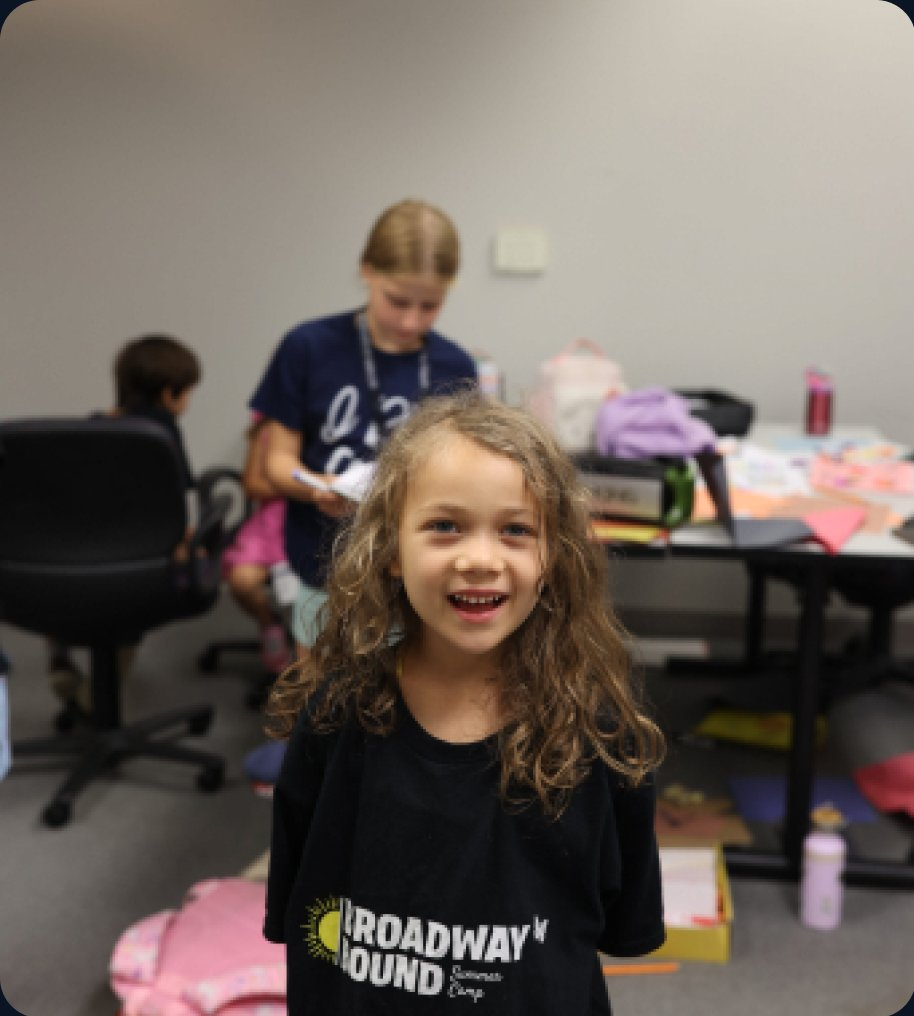
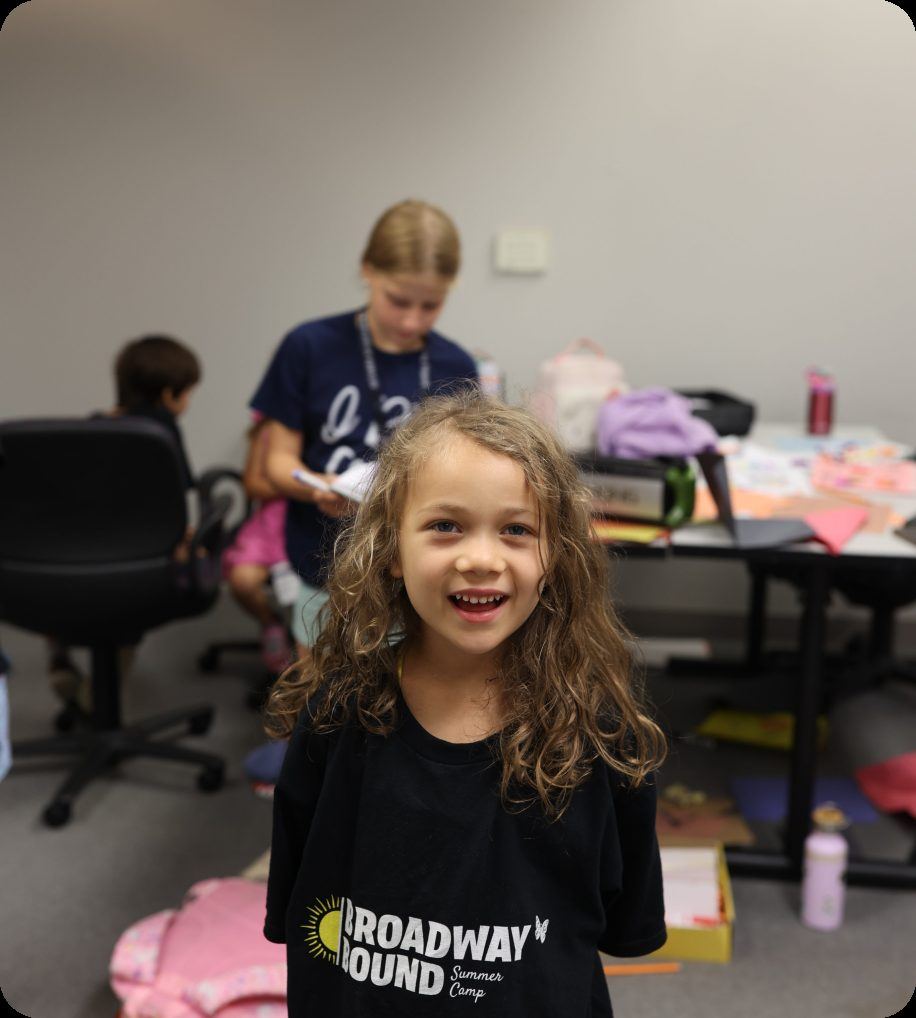
Free class funnel: raw Figma assets via API, coded chrome
All photos now pulled per-node through the Figma REST API (raw fills,
no baked badges/rounding/text): true hero photo (top image fill of the
hero frame), 5 separate strip photos with CSS gaps and radii, clean
how-it-works photos with the numbered badges rendered in code, raw card
and ticket photos. Doodles and the NOVAPA wordmark are now the design's
actual SVG vectors (transparent, design opacities), read-next ellipse is
coded text, GT Walsheim self-hosted (trial glyphs, DM Sans per-glyph
fallback until the licensed files arrive).

diff --git a/free-class/index.html b/free-class/index.html
@@ -12,20 +12,25 @@
 <!-- Free class funnel, step 1 of 3. Rebuilt Aug 26 2026 to match the BFA
      Figma (Section 1, frame 2206-5598) at the 1512 design grid; photos and
      doodles are cropped straight from the 2x frame export (free-class/img/).
-     Headline font is Protest Strike by Jason's call (brand override of the
-     design's GT Walsheim Pro). -->
+     Fonts are self-hosted GT Walsheim (licensed by Jason, Aug 26) matching
+     the design; DM Sans is the per-glyph fallback because the current
+     files are glyph-stripped trials — replace fonts/*.woff2 with the
+     licensed full set, same filenames, when Jason drops them in. -->
 <link rel="preconnect" href="https://fonts.googleapis.com">
 <link rel="preconnect" href="https://fonts.gstatic.com" crossorigin>
-<link href="https://fonts.googleapis.com/css2?family=Protest+Strike&family=DM+Sans:ital,wght@0,400;0,500;0,700;1,400&display=swap" rel="stylesheet">
+<link href="https://fonts.googleapis.com/css2?family=DM+Sans:ital,wght@0,400;0,500;0,700;1,400&display=swap" rel="stylesheet">
 <style>
+  @font-face { font-family:'GT Walsheim'; src:url('/free-class/fonts/GTWalsheim-Regular.woff2') format('woff2'); font-weight:400; font-display:swap; }
+  @font-face { font-family:'GT Walsheim'; src:url('/free-class/fonts/GTWalsheim-Medium.woff2') format('woff2'); font-weight:500; font-display:swap; }
+  @font-face { font-family:'GT Walsheim'; src:url('/free-class/fonts/GTWalsheim-Bold.woff2') format('woff2'); font-weight:700; font-display:swap; }
   :root { --cream:#FFFBEE; --navy:#0B1422; --ink:#1A2230; --dim:#5B6472; --dimlight:rgba(255,255,255,0.72); --gold:#FFC866; --gold2:#F2B94C; --line:#E8E2CE; }
   * { margin:0; padding:0; box-sizing:border-box; }
   html { scroll-behavior:smooth; }
-  body { background:var(--cream); color:var(--ink); font-family:'DM Sans',sans-serif; font-size:16px; line-height:1.5; -webkit-font-smoothing:antialiased; }
-  h1,h2,h3 { font-family:'Protest Strike',sans-serif; font-weight:400; letter-spacing:0.01em; line-height:1.15; }
+  body { background:var(--cream); color:var(--ink); font-family:'GT Walsheim','DM Sans',sans-serif; font-size:16px; line-height:1.5; -webkit-font-smoothing:antialiased; }
+  h1,h2,h3 { font-family:'GT Walsheim','DM Sans',sans-serif; font-weight:700; letter-spacing:-0.045em; line-height:1.2; }
   .wrap { max-width:1512px; margin:0 auto; position:relative; }
   .pad { padding-left:clamp(20px,8.5vw,128px); padding-right:clamp(20px,8.5vw,128px); }
-  .btn { display:inline-block; background:var(--gold); color:var(--navy); font-family:'DM Sans',sans-serif; font-weight:700; font-size:15px; padding:13px 28px; border-radius:999px; text-decoration:none; transition:transform .12s ease; }
+  .btn { display:inline-block; background:var(--gold); color:var(--navy); font-family:'GT Walsheim','DM Sans',sans-serif; font-weight:700; font-size:15px; padding:13px 28px; border-radius:999px; text-decoration:none; transition:transform .12s ease; }
   .btn:hover { transform:translateY(-2px); }
   .btn-note { font-size:11px; letter-spacing:1.6px; font-weight:700; color:var(--dim); text-transform:uppercase; margin-left:16px; }
   img { display:block; }
@@ -36,7 +41,7 @@
   .hero-media img { width:100%; height:100%; object-fit:cover; object-position:center 25%; filter:brightness(0.55) saturate(1.05); }
   .hero-media:after { content:""; position:absolute; inset:0; background:radial-gradient(80% 70% at 50% 45%, rgba(4,8,16,0.25), rgba(4,8,16,0.55)); }
   .hero-inner { position:relative; text-align:center; padding:34px 22px 120px; }
-  .hero-logo { font-family:'Protest Strike',sans-serif; letter-spacing:4px; font-size:21px; }
+  .hero-logo { font-family:'GT Walsheim','DM Sans',sans-serif; font-weight:700; letter-spacing:4px; font-size:21px; }
   .hero-badge { display:inline-flex; align-items:center; gap:8px; margin-top:min(24vh,300px); background:rgba(0,0,0,0.55); border:1px solid rgba(255,255,255,0.22); border-radius:999px; padding:8px 18px; font-size:11.5px; letter-spacing:1.8px; font-weight:700; text-transform:uppercase; }
   .hero-badge b { color:var(--gold); }
   .hero h1 { font-size:clamp(30px,3.5vw,53px); max-width:900px; margin:20px auto 0; }
@@ -69,7 +74,7 @@
   .tl-right h2 { font-size:clamp(26px,2.6vw,40px); max-width:420px; }
   .tl-steps { margin-top:44px; border-left:1.5px solid var(--line); padding-left:34px; display:flex; flex-direction:column; gap:70px; }
   .tl-tag { display:inline-block; border:1.5px solid var(--gold2); color:#B07B1E; border-radius:999px; font-size:10.5px; font-weight:700; letter-spacing:1.6px; padding:4px 13px; text-transform:uppercase; background:var(--cream); }
-  .tl-steps h3 { font-size:15.5px; margin:12px 0 8px; font-family:'DM Sans',sans-serif; font-weight:700; letter-spacing:0; }
+  .tl-steps h3 { font-size:15.5px; margin:12px 0 8px; font-family:'GT Walsheim','DM Sans',sans-serif; font-weight:700; letter-spacing:0; }
   .tl-steps p { color:var(--dim); font-size:14px; line-height:1.65; max-width:330px; }
   .tl-cta { margin-top:60px; display:flex; align-items:center; }
 
@@ -80,8 +85,11 @@
   .how h2 { font-size:clamp(25px,2.4vw,37px); max-width:520px; }
   .how .sub { color:var(--dim); font-size:14px; line-height:1.65; max-width:520px; margin-top:16px; }
   .how-grid { display:grid; grid-template-columns:repeat(4,1fr); gap:24px; margin-top:44px; }
-  .how-card img { width:100%; border-radius:10px; }
-  .how-card h3 { font-size:15.5px; margin-top:14px; font-family:'DM Sans',sans-serif; font-weight:700; letter-spacing:0; }
+  .how-card img { width:100%; border-radius:10px; aspect-ratio:264/260; object-fit:cover; }
+  .how-card .ph { position:relative; }
+  .how-card .n { position:absolute; left:12px; top:-13px; width:27px; height:27px; display:flex; align-items:center; justify-content:center; background:var(--gold); color:var(--navy); border-radius:50%; font-family:'GT Walsheim','DM Sans',sans-serif; font-weight:700; font-size:14px; }
+
+  .how-card h3 { font-size:15.5px; margin-top:14px; font-family:'GT Walsheim','DM Sans',sans-serif; font-weight:700; letter-spacing:0; }
   .how-card p { color:var(--dim); font-size:13px; line-height:1.6; margin-top:6px; }
   .how .center { text-align:center; margin-top:44px; }
 
@@ -90,15 +98,16 @@
   .zero h2 { font-size:clamp(28px,3vw,46px); text-align:center; }
   .zero-cards { width:51.2%; max-width:775px; min-width:min(92%,560px); margin:44px auto 0; display:flex; flex-direction:column; gap:16px; position:relative; z-index:1; }
   .zc { background:#F6F3E8; color:var(--ink); border-radius:10px; padding:17px 26px; }
-  .zc h3 { font-size:15px; margin-bottom:5px; font-family:'DM Sans',sans-serif; font-weight:700; letter-spacing:0; }
+  .zc h3 { font-size:15px; margin-bottom:5px; font-family:'GT Walsheim','DM Sans',sans-serif; font-weight:700; letter-spacing:0; }
   .zc p { font-size:13.5px; line-height:1.6; color:#3A4353; }
   .zero .cta-row { text-align:center; margin-top:40px; position:relative; z-index:1; }
   .zero .cta-note { display:block; margin:14px 0 0; color:rgba(255,255,255,0.55); font-size:11px; letter-spacing:1.6px; font-weight:700; text-transform:uppercase; }
   .zero-doodle { position:absolute; right:5%; bottom:-10px; width:18%; max-width:275px; pointer-events:none; }
 
   /* Photo strip — single design crop, full width */
-  .strip { background:var(--navy); }
-  .strip img { width:100%; }
+  .strip { background:var(--navy); display:flex; gap:8px; padding:0 0 0 0; }
+  .strip img { width:calc((100% - 32px)/5); aspect-ratio:295/340; object-fit:cover; border-radius:12px; }
+  @media (max-width:700px) { .strip { flex-wrap:nowrap; overflow-x:auto; } .strip img { width:44vw; flex:none; } }
 
   /* Season caption — design y 5990-6420 */
   .season { text-align:center; padding:110px 22px 60px; }
@@ -123,7 +132,7 @@
   .final .snap { width:min(479px,86%); border-radius:16px; margin:70px auto 0; }
   .final .btn { margin:70px 0 0; text-transform:uppercase; letter-spacing:1.2px; font-size:14px; padding:18px 88px; }
   footer { margin-top:110px; padding:0 22px 60px; font-size:11.5px; color:rgba(255,255,255,0.5); line-height:2; }
-  footer .flogo { font-family:'Protest Strike',sans-serif; letter-spacing:4px; font-size:24px; color:#fff; margin-bottom:20px; }
+  footer .flogo { font-family:'GT Walsheim','DM Sans',sans-serif; font-weight:700; letter-spacing:4px; font-size:24px; color:#fff; margin-bottom:20px; }
 
   @media (max-width:900px) {
     .rated-head { flex-direction:column; align-items:flex-start; }
@@ -158,9 +167,9 @@ fbq('track', 'ViewContent', { content_name: 'Free Class Funnel', content_type: '
 <body>
 
 <header class="hero">
-  <div class="hero-media"><img src="/register/img/show-2026.jpg" alt="NOVAPA kids performing on a real stage" fetchpriority="high"></div>
+  <div class="hero-media"><img src="/free-class/img/hero.jpg" alt="NOVAPA kids performing on a real stage" fetchpriority="high"></div>
   <div class="hero-inner">
-    <div class="hero-logo">NOVAPA</div>
+    <div class="hero-logo"><img src="/free-class/img/logo-novapa.svg" alt="NOVAPA" style="height:26px;margin:0 auto"></div>
     <div><span class="hero-badge"><b>Free class pass:</b> September only &middot; Leesburg, VA</span></div>
     <h1>Give your child a free NOVAPA day this September. By February, watch them take a bow on a real stage.</h1>
     <p>Come try a real class, completely free this month. See if it&rsquo;s their thing. If it is, a whole season of it ends with them on stage in a real show &mdash; Disney&rsquo;s Frozen Jr., this winter.</p>
@@ -168,7 +177,8 @@ fbq('track', 'ViewContent', { content_name: 'Free Class Funnel', content_type: '
   </div>
 </header>
 
-<section class="rated">
+<section class="rated" style="position:relative;overflow:visible">
+  <img src="/free-class/img/doodle-circle.svg" alt="" style="position:absolute;right:4%;top:-300px;width:510px;max-width:40vw;opacity:0.8;pointer-events:none">
   <div class="wrap pad">
     <div class="rated-head">
       <h2>Rated five stars by the parents who&rsquo;ve already done this</h2>
@@ -187,7 +197,7 @@ fbq('track', 'ViewContent', { content_name: 'Free Class Funnel', content_type: '
 
 <section class="tl">
   <div class="wrap">
-    <img class="tl-doodle" src="/free-class/img/doodle-tan.jpg" alt="">
+    <img class="tl-doodle" src="/free-class/img/doodle-tan.svg" alt="">
     <div class="pad">
       <div class="tl-grid">
         <div class="tl-photos">
@@ -228,22 +238,22 @@ fbq('track', 'ViewContent', { content_name: 'Free Class Funnel', content_type: '
       <p class="sub">One free class. Real instructors. Real kids their age. Not a presentation, not a watered down demo &mdash; the actual environment our enrolled kids get. You don&rsquo;t have to guess whether they&rsquo;ll love it. Let them try it.</p>
       <div class="how-grid">
         <div class="how-card">
-          <img src="/free-class/img/how-1.jpg" alt="Parent booking a September date online" loading="lazy">
+          <div class="ph"><span class="n">1</span><img src="/free-class/img/how-1.jpg" alt="Parent booking a September date online" loading="lazy"></div>
           <h3>Choose your day</h3>
           <p>Pick an available September date. Takes about a minute.</p>
         </div>
         <div class="how-card">
-          <img src="/free-class/img/how-2.jpg" alt="Child arriving at class" loading="lazy">
+          <div class="ph"><span class="n">2</span><img src="/free-class/img/how-2.jpg" alt="Child arriving at class" loading="lazy"></div>
           <h3>Bring your child</h3>
           <p>They join a real NOVAPA class at the National Conference Center in Leesburg.</p>
         </div>
         <div class="how-card">
-          <img src="/free-class/img/how-3.jpg" alt="Kids in class together" loading="lazy">
+          <div class="ph"><span class="n">3</span><img src="/free-class/img/how-3.jpg" alt="Kids in class together" loading="lazy"></div>
           <h3>Let them experience it</h3>
           <p>They meet the instructors, meet the other kids, and get involved.</p>
         </div>
         <div class="how-card">
-          <img src="/free-class/img/how-4.jpg" alt="Kids building the show together" loading="lazy">
+          <div class="ph"><span class="n">4</span><img src="/free-class/img/how-4.jpg" alt="Kids building the show together" loading="lazy"></div>
           <h3>Decide what&rsquo;s next</h3>
           <p>If they love it, we&rsquo;ll show you the season. If they don&rsquo;t &mdash; that&rsquo;s completely okay.</p>
         </div>
@@ -274,11 +284,17 @@ fbq('track', 'ViewContent', { content_name: 'Free Class Funnel', content_type: '
       <a class="btn" data-book href="/free-class/book.html">Claim my free class pass</a>
       <span class="cta-note">It starts with 1 free day</span>
     </div>
-    <img class="zero-doodle" src="/free-class/img/doodle-n.jpg" alt="">
+    <img class="zero-doodle" src="/free-class/img/doodle-n.svg" alt="" style="opacity:0.9">
   </div>
 </section>
 
-<div class="strip"><img src="/free-class/img/strip.jpg" alt="Five moments from NOVAPA seasons: shows, classes, and performances" loading="lazy"></div>
+<div class="strip">
+  <img src="/free-class/img/strip-1.jpg" alt="A NOVAPA show moment" loading="lazy">
+  <img src="/free-class/img/strip-2.jpg" alt="A NOVAPA class moment" loading="lazy">
+  <img src="/free-class/img/strip-3.jpg" alt="A NOVAPA performance moment" loading="lazy">
+  <img src="/free-class/img/strip-4.jpg" alt="A NOVAPA show moment" loading="lazy">
+  <img src="/free-class/img/strip-5.jpg" alt="A NOVAPA performance moment" loading="lazy">
+</div>
 
 <section class="season">
   <h2>This is what a season actually looks like</h2>
@@ -310,7 +326,7 @@ fbq('track', 'ViewContent', { content_name: 'Free Class Funnel', content_type: '
 
 <section class="final">
   <div class="wrap">
-    <img class="final-doodle" src="/free-class/img/doodle-loop.jpg" alt="">
+    <img class="final-doodle" src="/free-class/img/doodle-loop.svg" alt="" style="opacity:0.12">
     <div class="inner">
       <h2>Every free day is a real seat, with a real instructor, in a real class.</h2>
       <p class="sub">September dates are limited. Rehearsals begin the week of September 15, so the September days go first. Claim yours and we hold that seat for your child specifically.</p>
@@ -318,7 +334,7 @@ fbq('track', 'ViewContent', { content_name: 'Free Class Funnel', content_type: '
       <a class="btn" data-book href="/free-class/book.html">Claim my free class pass</a>
     </div>
     <footer>
-      <div class="flogo">NOVAPA</div>
+      <div class="flogo"><img src="/free-class/img/logo-novapa.svg" alt="NOVAPA" style="height:28px;margin:0 auto 20px"></div>
       Northern Virginia Performing Arts &middot; 18945 Conference Center Drive, Plaza C, Leesburg VA 20176 &middot; (571) 571-2120<br>
       This site is not a part of the Facebook website or Facebook Inc. Additionally, this site is NOT endorsed by Facebook in any way. FACEBOOK is a trademark of FACEBOOK, Inc.<br>
       &copy; 2026 Northern Virginia Performing Arts. All Rights Reserved.

diff --git a/free-class/confirmed.html b/free-class/confirmed.html
@@ -15,17 +15,20 @@
      the email is already sent by the time this renders. -->
 <link rel="preconnect" href="https://fonts.googleapis.com">
 <link rel="preconnect" href="https://fonts.gstatic.com" crossorigin>
-<link href="https://fonts.googleapis.com/css2?family=Protest+Strike&family=DM+Sans:ital,wght@0,400;0,500;0,700;1,400&display=swap" rel="stylesheet">
+<link href="https://fonts.googleapis.com/css2?family=DM+Sans:ital,wght@0,400;0,500;0,700;1,400&display=swap" rel="stylesheet">
 <style>
+  @font-face { font-family:'GT Walsheim'; src:url('/free-class/fonts/GTWalsheim-Regular.woff2') format('woff2'); font-weight:400; font-display:swap; }
+  @font-face { font-family:'GT Walsheim'; src:url('/free-class/fonts/GTWalsheim-Medium.woff2') format('woff2'); font-weight:500; font-display:swap; }
+  @font-face { font-family:'GT Walsheim'; src:url('/free-class/fonts/GTWalsheim-Bold.woff2') format('woff2'); font-weight:700; font-display:swap; }
   :root { --cream:#FFFBEE; --navy:#0B1422; --ink:#1A2230; --dim:#5B6472; --gold:#FFC866; --gold2:#F2B94C; --line:#E8E2CE; --green:#2E7D32; }
   * { margin:0; padding:0; box-sizing:border-box; }
   html { scroll-behavior:smooth; }
-  body { background:var(--cream); color:var(--ink); font-family:'DM Sans',sans-serif; font-size:16px; line-height:1.5; -webkit-font-smoothing:antialiased; }
-  h1,h2 { font-family:'Protest Strike',sans-serif; font-weight:400; letter-spacing:0.01em; line-height:1.15; }
+  body { background:var(--cream); color:var(--ink); font-family:'GT Walsheim','DM Sans',sans-serif; font-size:16px; line-height:1.5; -webkit-font-smoothing:antialiased; }
+  h1,h2 { font-family:'GT Walsheim','DM Sans',sans-serif; font-weight:700; letter-spacing:-0.045em; line-height:1.2; }
   .wrap { max-width:1512px; margin:0 auto; position:relative; }
   .pad { padding-left:clamp(20px,8.5vw,128px); padding-right:clamp(20px,8.5vw,128px); }
   img { display:block; }
-  .logo { font-family:'Protest Strike',sans-serif; letter-spacing:4px; font-size:22px; text-align:center; padding:40px 0 0; }
+  .logo { font-family:'GT Walsheim','DM Sans',sans-serif; font-weight:700; letter-spacing:4px; font-size:22px; text-align:center; padding:40px 0 0; }
 
   /* Ticket — design y 185-770, x 115-1390 */
   .ticket-outer { padding-top:56px; }
@@ -45,8 +48,8 @@
   .t-row span { color:rgba(255,255,255,0.55); }
   .t-row b { text-align:right; }
   .t-note { margin-top:18px; font-size:12.5px; line-height:1.6; color:rgba(255,255,255,0.6); max-width:560px; }
-  .read-next { display:block; width:max-content; margin:34px auto 0; }
-  .read-next img { height:46px; }
+  .read-next { display:block; position:relative; width:max-content; margin:34px auto 0; padding:14px 26px; color:var(--ink); font-size:11px; letter-spacing:1.6px; font-weight:700; text-transform:uppercase; text-decoration:none; }
+  .read-next:before { content:""; position:absolute; inset:0; border:2px solid var(--gold2); border-radius:50%; transform:rotate(-2deg); opacity:0.9; }
 
   section { padding:90px 0 0; }
 
@@ -91,7 +94,7 @@
 
   /* Decide — btn left, para right */
   .decide { display:grid; grid-template-columns:1fr 1fr; gap:clamp(30px,8vw,120px); align-items:start; margin-top:100px; }
-  .decide .btn { display:inline-block; background:var(--gold); color:var(--navy); font-family:'DM Sans',sans-serif; font-weight:700; font-size:14px; letter-spacing:0.6px; text-transform:uppercase; padding:15px 34px; border-radius:999px; text-decoration:none; }
+  .decide .btn { display:inline-block; background:var(--gold); color:var(--navy); font-family:'GT Walsheim','DM Sans',sans-serif; font-weight:700; font-size:14px; letter-spacing:0.6px; text-transform:uppercase; padding:15px 34px; border-radius:999px; text-decoration:none; }
   .decide .later { display:block; width:max-content; margin-top:20px; color:var(--ink); font-size:11px; letter-spacing:1.4px; font-weight:700; text-transform:uppercase; }
   .decide .aside { color:var(--dim); font-size:13.5px; line-height:1.7; max-width:420px; }
 
@@ -106,7 +109,7 @@
   .call-note { font-size:12.5px; color:var(--dim); margin-top:10px; }
 
   footer { background:var(--navy); text-align:center; padding:70px 22px 70px; font-size:11.5px; color:rgba(255,255,255,0.5); line-height:2; }
-  footer .flogo { font-family:'Protest Strike',sans-serif; letter-spacing:4px; font-size:24px; color:#fff; margin-bottom:20px; }
+  footer .flogo { font-family:'GT Walsheim','DM Sans',sans-serif; font-weight:700; letter-spacing:4px; font-size:24px; color:#fff; margin-bottom:20px; }
 
   @media (max-width:900px) {
     .ticket { grid-template-columns:1fr; }
@@ -135,7 +138,7 @@ fbq('track', 'PageView');
 </head>
 <body>
 
-<div class="logo">NOVAPA</div>
+<div class="logo"><img src="/free-class/img/logo-novapa-dark.svg" alt="NOVAPA" style="height:26px;margin:0 auto"></div>
 
 <div class="ticket-outer">
   <div class="wrap pad">
@@ -153,7 +156,7 @@ fbq('track', 'PageView');
         <p class="t-note">Your confirmation is on its way with the date and what to bring. That day is yours no matter what you decide on this page.</p>
       </div>
     </div>
-    <a class="read-next" href="#capped"><img src="/free-class/img/read-ellipse.jpg" alt="Read the next part anyway — it's time-sensitive"></a>
+    <a class="read-next" href="#capped">Read the next part anyway &mdash; it&rsquo;s time-sensitive</a>
   </div>
 </div>
 
@@ -165,15 +168,15 @@ fbq('track', 'PageView');
     </div>
     <div class="card-row">
       <div class="card">
-        <div class="ph"><span class="chip gone">Sold out</span><img src="/free-class/img/c-shrek.jpg" alt="Shrek Jr., summer 2026"></div>
+        <div class="ph"><span class="chip gone">Sold out</span><img src="/free-class/img/sc-shrek.jpg" alt="Shrek Jr., summer 2026"></div>
         <h3>Shrek Jr.</h3>
       </div>
       <div class="card">
-        <div class="ph"><span class="chip gone">Sold out</span><img src="/free-class/img/c-sweeney.jpg" alt="Sweeney Todd Teen Conservatory"></div>
+        <div class="ph"><span class="chip gone">Sold out</span><img src="/free-class/img/sc-sweeney.jpg" alt="Sweeney Todd Teen Conservatory"></div>
         <h3>Sweeney Todd &mdash; Teen Conservatory</h3>
       </div>
       <div class="card">
-        <div class="ph"><span class="chip open">Spots open</span><img src="/free-class/img/c-frozen.jpg" alt="Disney's Frozen Jr."></div>
+        <div class="ph"><span class="chip open">Spots open</span><img src="/free-class/img/sc-frozen.jpg" alt="Disney's Frozen Jr."></div>
         <h3>Disney&rsquo;s Frozen Jr.</h3>
       </div>
       <div class="card">
@@ -189,7 +192,7 @@ fbq('track', 'PageView');
 </section>
 
 <section class="why">
-  <img class="why-doodle" src="/free-class/img/doodle-m.jpg" alt="">
+  <img class="why-doodle" src="/free-class/img/doodle-m.svg" alt="" style="opacity:0.8">
   <div class="wrap">
     <div class="k">We&rsquo;re not asking you to gamble</div>
     <h2>Why you can safely say yes right now</h2>
@@ -215,7 +218,7 @@ fbq('track', 'PageView');
   <div class="wrap pad">
     <h2>Pick what fits your family</h2>
     <div class="gridwrap">
-      <img class="pick-doodle" src="/free-class/img/doodle-tan2.jpg" alt="">
+      <img class="pick-doodle" src="/free-class/img/doodle-tan2.svg" alt="">
       <div class="cardg">
         <div class="card">
           <div class="ph"><span class="chip gone">Sold out</span><img src="/free-class/img/c-shrek.jpg" alt="Shrek Jr."></div>
@@ -286,7 +289,7 @@ fbq('track', 'PageView');
 </section>
 
 <footer>
-  <div class="flogo">NOVAPA</div>
+  <div class="flogo"><img src="/free-class/img/logo-novapa.svg" alt="NOVAPA" style="height:28px;margin:0 auto 20px"></div>
   Northern Virginia Performing Arts &middot; 18945 Conference Center Drive, Plaza C, Leesburg VA 20176 &middot; (571) 571-2120<br>
   This site is not a part of the Facebook website or Facebook Inc. Additionally, this site is NOT endorsed by Facebook in any way. FACEBOOK is a trademark of FACEBOOK, Inc.<br>
   &copy; 2026 Northern Virginia Performing Arts. All Rights Reserved.

diff --git a/free-class/book.html b/free-class/book.html
@@ -10,11 +10,14 @@
      same endpoint, which books the seat and sends the confirmation email. -->
 <link rel="preconnect" href="https://fonts.googleapis.com">
 <link rel="preconnect" href="https://fonts.gstatic.com" crossorigin>
-<link href="https://fonts.googleapis.com/css2?family=Protest+Strike&family=DM+Sans:ital,wght@0,400;0,500;0,700;1,400&display=swap" rel="stylesheet">
+<link href="https://fonts.googleapis.com/css2?family=DM+Sans:ital,wght@0,400;0,500;0,700;1,400&display=swap" rel="stylesheet">
 <style>
+  @font-face { font-family:'GT Walsheim'; src:url('/free-class/fonts/GTWalsheim-Regular.woff2') format('woff2'); font-weight:400; font-display:swap; }
+  @font-face { font-family:'GT Walsheim'; src:url('/free-class/fonts/GTWalsheim-Medium.woff2') format('woff2'); font-weight:500; font-display:swap; }
+  @font-face { font-family:'GT Walsheim'; src:url('/free-class/fonts/GTWalsheim-Bold.woff2') format('woff2'); font-weight:700; font-display:swap; }
   :root { --cream:#FFFBEE; --navy:#0B1422; --ink:#1A2230; --dim:#5B6472; --gold:#FFC866; --line:#E4E7ED; }
   * { margin:0; padding:0; box-sizing:border-box; }
-  body { background:var(--navy); color:#fff; font-family:'DM Sans',sans-serif; font-size:16px; line-height:1.6; -webkit-font-smoothing:antialiased; }
+  body { background:var(--navy); color:#fff; font-family:'GT Walsheim','DM Sans',sans-serif; font-size:16px; line-height:1.6; -webkit-font-smoothing:antialiased; }
   .topbar { display:flex; justify-content:space-between; align-items:center; padding:22px 26px; max-width:1140px; margin:0 auto; }
   .back { color:rgba(255,255,255,0.7); font-size:12px; letter-spacing:1.6px; font-weight:700; text-transform:uppercase; text-decoration:none; }
   .back:hover { color:#fff; }
@@ -22,9 +25,9 @@
   .steps i { display:block; width:52px; height:4px; border-radius:4px; background:rgba(255,255,255,0.18); }
   .steps i.on { background:var(--gold); }
   .head { text-align:center; max-width:640px; margin:26px auto 0; padding:0 22px; }
-  h1 { font-family:'Protest Strike',sans-serif; letter-spacing:0.01em; font-weight:400; font-size:clamp(30px,5vw,46px); line-height:1.1; }
+  h1 { font-family:'GT Walsheim','DM Sans',sans-serif; font-weight:700; letter-spacing:0.01em; font-weight:400; font-size:clamp(30px,5vw,46px); line-height:1.1; }
   .head p { color:rgba(255,255,255,0.72); font-size:15px; margin-top:14px; }
-  .logo { font-family:'Protest Strike',sans-serif; font-weight:400; letter-spacing:4px; font-size:20px; color:#fff; text-align:center; padding-top:26px; }
+  .logo { font-family:'GT Walsheim','DM Sans',sans-serif; font-weight:700; letter-spacing:4px; font-size:20px; color:#fff; text-align:center; padding-top:26px; }
 
   .widget { background:#fff; color:var(--ink); border-radius:22px; max-width:1080px; margin:38px auto 90px; padding:40px 44px; }
   .cols { display:grid; grid-template-columns:1.1fr 1fr; gap:48px; }
@@ -38,7 +41,7 @@
   .dates { display:grid; grid-template-columns:repeat(3,1fr); gap:12px; }
   .date { border:1.5px solid var(--line); border-radius:12px; padding:14px 8px; text-align:center; cursor:pointer; background:#FAFBFC; }
   .date .dw { font-size:11.5px; letter-spacing:1.2px; font-weight:700; text-transform:uppercase; color:var(--dim); }
-  .date .dn { font-family:'Protest Strike',sans-serif; letter-spacing:0.01em; font-weight:400; font-size:26px; line-height:1.1; }
+  .date .dn { font-family:'GT Walsheim','DM Sans',sans-serif; font-weight:700; letter-spacing:0.01em; font-weight:400; font-size:26px; line-height:1.1; }
   .date .dm { font-size:12.5px; color:var(--dim); }
   .date.on { border-color:#B07B1E; background:var(--gold); }
   .date.on .dw, .date.on .dm { color:#513A0E; }
@@ -51,12 +54,12 @@
   .field { margin-bottom:16px; }
   input { width:100%; border:1.5px solid var(--line); background:#F5F7FA; border-radius:8px; padding:12px 14px; font-family:'DM Sans',sans-serif; font-size:15px; color:var(--ink); }
   input:focus { outline:none; border-color:var(--gold); background:#fff; }
-  .submit { display:inline-block; border:0; background:var(--gold); color:var(--navy); font-family:'DM Sans',sans-serif; font-weight:700; font-size:16.5px; padding:14px 32px; border-radius:999px; cursor:pointer; box-shadow:0 3px 0 rgba(0,0,0,0.18); margin-top:6px; }
+  .submit { display:inline-block; border:0; background:var(--gold); color:var(--navy); font-family:'GT Walsheim','DM Sans',sans-serif; font-weight:700; font-size:16.5px; padding:14px 32px; border-radius:999px; cursor:pointer; box-shadow:0 3px 0 rgba(0,0,0,0.18); margin-top:6px; }
   .submit[disabled] { opacity:0.6; cursor:wait; }
   .err { color:#B4232A; font-size:14px; margin-top:12px; display:none; }
 
   footer { text-align:center; padding:0 22px 46px; font-size:12px; color:rgba(255,255,255,0.5); line-height:1.8; }
-  footer .flogo { font-family:'Protest Strike',sans-serif; font-weight:400; letter-spacing:4px; font-size:19px; color:#fff; margin-bottom:10px; }
+  footer .flogo { font-family:'GT Walsheim','DM Sans',sans-serif; font-weight:700; letter-spacing:4px; font-size:19px; color:#fff; margin-bottom:10px; }
 
   @media (max-width:860px) {
     .widget { padding:28px 22px; margin:28px 14px 60px; }
@@ -85,7 +88,7 @@ fbq('track', 'InitiateCheckout', { content_name: 'Free Class Booking' });
   <a class="back" data-utm href="/free-class/">&larr; Back to free class details</a>
   <div class="steps">Step 2 of 3 <i class="on"></i><i class="on"></i><i></i></div>
 </div>
-<div class="logo">NOVAPA</div>
+<div class="logo"><img src="/free-class/img/logo-novapa.svg" alt="NOVAPA" style="height:24px;margin:0 auto"></div>
 <div class="head">
   <h1>Pick your child&rsquo;s free class</h1>
   <p>Takes about a minute. No payment, no card, no commitment &mdash; we just need to know who&rsquo;s coming and when, so we can hold their seat.</p>
@@ -120,7 +123,7 @@ fbq('track', 'InitiateCheckout', { content_name: 'Free Class Booking' });
 </div>
 
 <footer>
-  <div class="flogo">NOVAPA</div>
+  <div class="flogo"><img src="/free-class/img/logo-novapa.svg" alt="NOVAPA" style="height:26px;margin:0 auto 10px"></div>
   Northern Virginia Performing Arts &middot; 18945 Conference Center Drive, Plaza C, Leesburg VA 20176 &middot; (571) 571-2120<br>
   &copy; 2026 Northern Virginia Performing Arts. All Rights Reserved.
 </footer>
